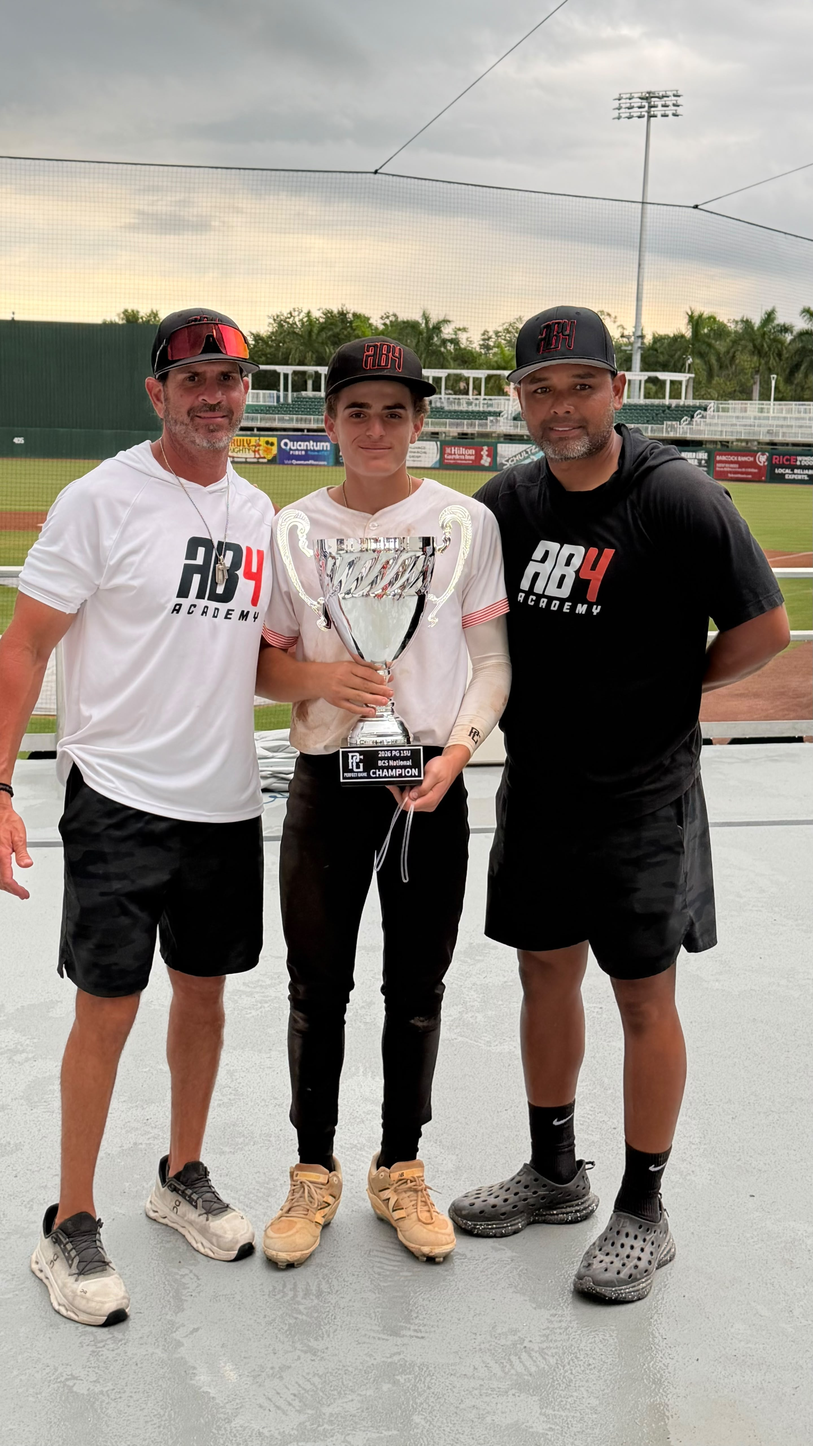
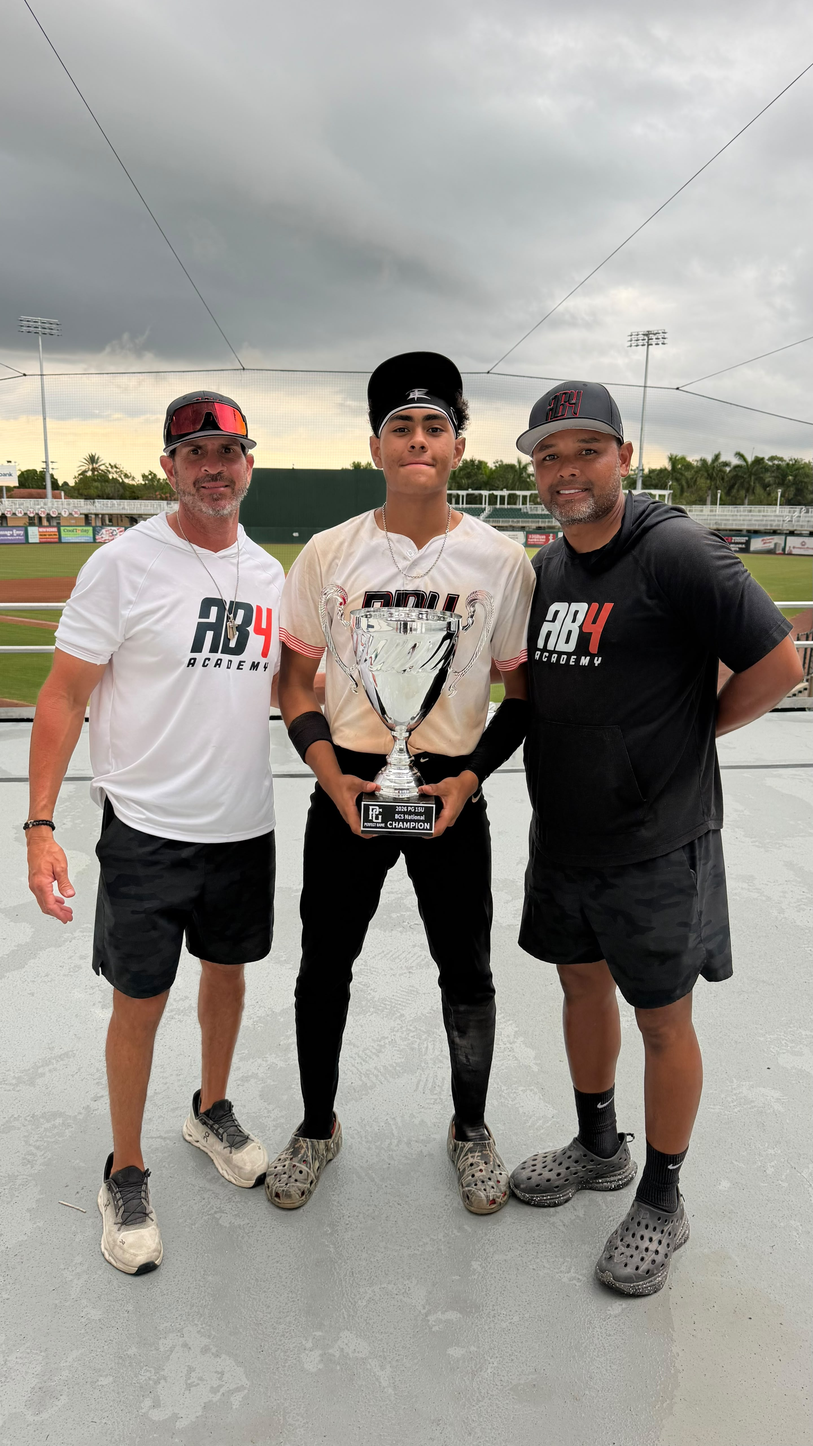
Give the hero more baseball energy and fix the red-out photo
Swap the static dugout background for the team's championship-mound
photo (game uniforms, trophy, stadium), and lighten the black/red
overlay layers that were nearly blacking out the image. The photo is
now clearly visible instead of reading as a flat red/black gradient.

diff --git a/app/page.tsx b/app/page.tsx
@@ -670,16 +670,18 @@ function Hero() {
       <div className="absolute inset-0">
         <img
           src="/academy/hero-bg.jpg"
-          alt="AB4 Academy players in the dugout"
-          className="w-full h-full object-cover opacity-40"
+          alt="AB4 Academy team celebrating a championship"
+          className="w-full h-full object-cover"
+          style={{ objectPosition: '50% 22%' }}
         />
-        <div className="absolute inset-0 bg-gradient-to-r from-brand-black via-brand-black/90 to-brand-black/70" />
+        <div className="absolute inset-0 bg-gradient-to-r from-brand-black via-brand-black/75 to-brand-black/25" />
+        <div className="absolute inset-0 bg-gradient-to-t from-brand-black via-transparent to-transparent" />
       </div>
 
       {/* Background diagonal shapes */}
       <div className="absolute inset-0 overflow-hidden">
-        <div className="absolute top-0 right-0 w-[70%] h-full bg-gradient-to-br from-brand-red/20 via-brand-red/10 to-transparent transform skew-x-[-12deg] translate-x-[20%]" />
-        <div className="absolute bottom-0 left-0 w-[40%] h-[60%] bg-gradient-to-tr from-brand-red/10 to-transparent transform skew-x-[12deg] -translate-x-[10%]" />
+        <div className="absolute top-0 right-0 w-[70%] h-full bg-gradient-to-br from-brand-red/10 via-brand-red/5 to-transparent transform skew-x-[-12deg] translate-x-[20%]" />
+        <div className="absolute bottom-0 left-0 w-[40%] h-[60%] bg-gradient-to-tr from-brand-red/5 to-transparent transform skew-x-[12deg] -translate-x-[10%]" />
       </div>
 
       {/* Floating baseball emojis */}
